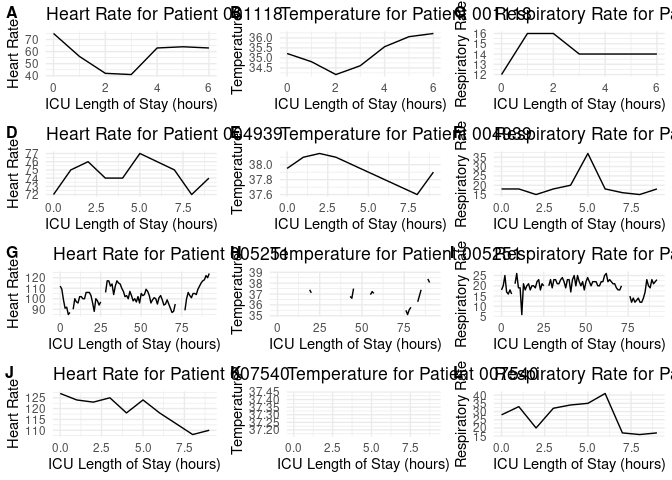
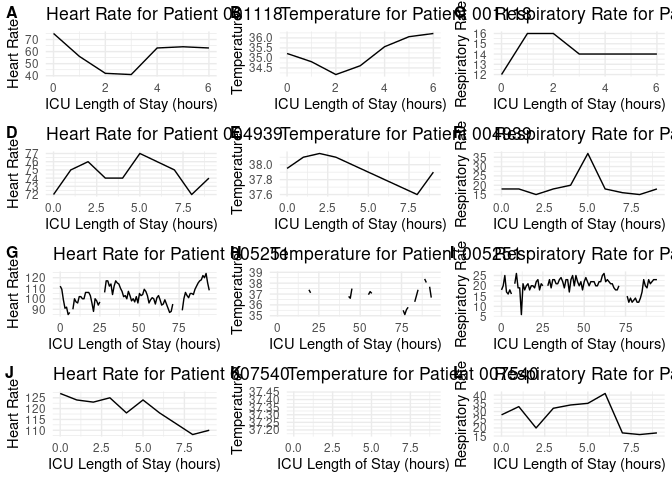
Updated report

diff --git a/A7_Q4.md b/A7_Q4.md
@@ -3,7 +3,7 @@ A7
 
 ## Q3
 
-## Date and Time 2023-04-11 23:18:52
+## Date and Time 2023-04-12 01:27:29
 
 ## A table listing the patients who currently have sepsis (if any), along with their most recent heart rate, temperature, and respiratory rate
 
@@ -26,7 +26,7 @@ sepsis_patients
       <chr>     <dbl> <dbl> <dbl>
     1 001118       63  36.2    14
     2 004939       74  37.9    18
-    3 005251      124  37.7    23
+    3 005251      108  NA      23
     4 007540      110  37.2    17
 
 ## Plots for all patients who have sepsis (if any) that show the complete history of their heart rate, temperature, and respiratory rate during their time in the ICU.
